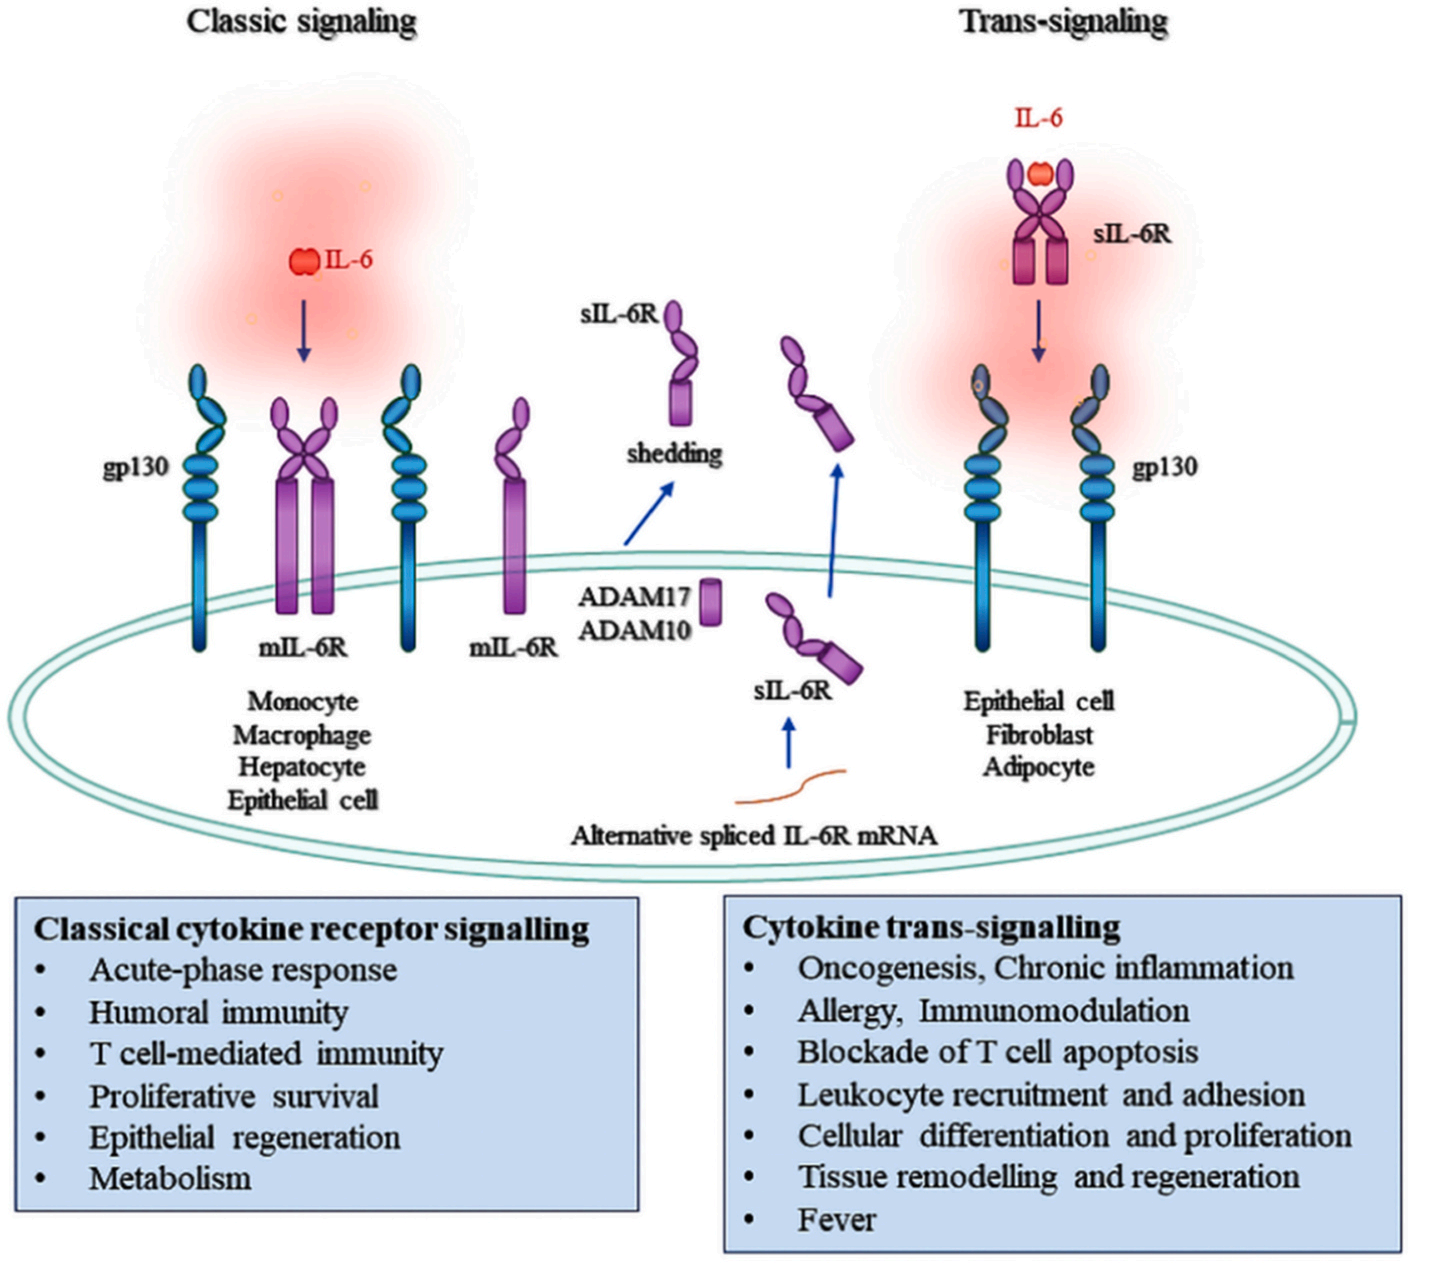
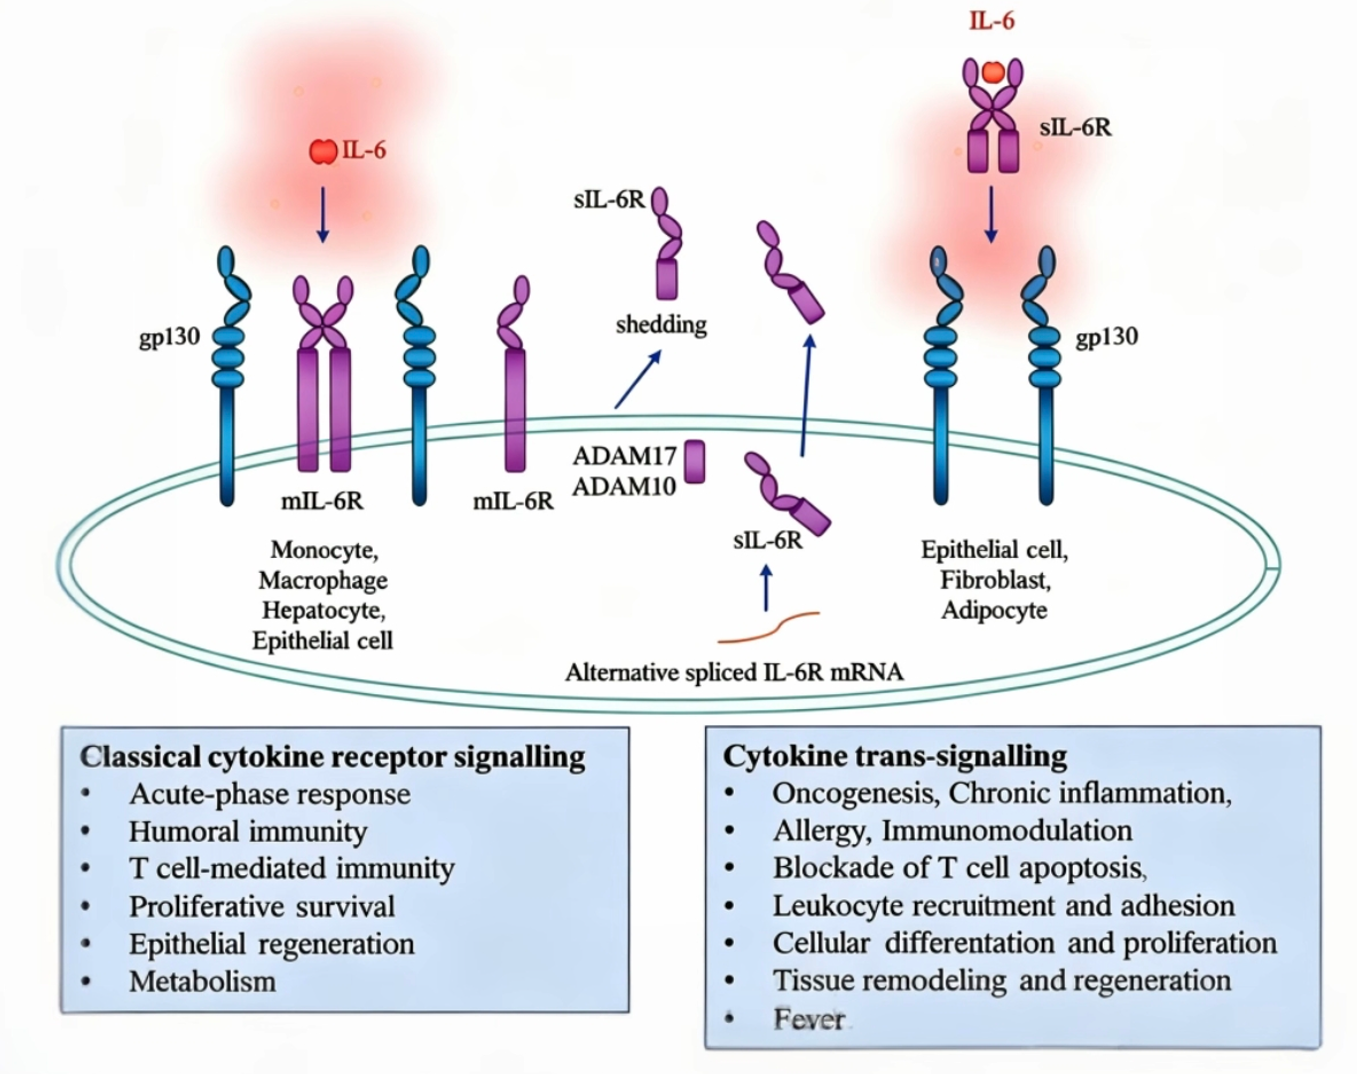
7

diff --git a/idec/Community/Community.html b/idec/Community/Community.html
@@ -627,10 +627,12 @@
             
             <nav class="sidebar-nav">
                 <ul>
-                    <li><a href="#Slide1" class="active">
+                    <li><a href="#Slide1"class="active">
                         <img src="../Community/目录图标/1 knowledge to action.png" alt="" class="nav-icon">Knowledge to Action
+                        </a></li>
                     <li><a href="#Slide2">
                         <img src="../Community/目录图标/2 trust gap.png" alt="" class="nav-icon">Trust Gap
+                        </a></li>
                     <li><a href="#Slide3">
                         <img src="../Community/目录图标/3 community needs.png" alt="" class="nav-icon">Community Needs
                     </a></li>
@@ -649,20 +651,27 @@
                     <li><a href="#Slide8">
                     <img src="../Community/目录图标/8 long-term commitment.png" alt="" class="nav-icon">Long-Term Commitment
                     </a></li>
+                    </ul>
             </nav>
         </aside>
 
         <!-- 主要内容区域 -->
         <main class="content-main">
-            <section id="content" class="content-section">
+            <section id="Slide1" class="content-section">
                 <div class="text-content0">
                     <div class="text-content">
-                        <p id="Slide1" class="title-style">Slide 1</p>
+                        <p  class="title-style">Chapter 1</p>
                         <p class="nomal-style">
                             <span style="font-size: 3rem; font-weight: bold;"> From Understanding the World to Transforming the World</span>
                           In our immunology classes we learned how B cells mutate their antibody genes and are then selected for stronger binding — somatic hypermutation, the process behind antibody affinity maturation. We then asked whether this natural principle could be used in our own research. But research should not stay in the laboratory. As these technologies move closer to patients, the people who may one day receive them need clear, reliable information too. That is why we took this work into the community.
                         </p>
-                        <p id="Slide2" class="title-style">Slide 2</p>
+                    </div>
+                </div>
+            </section>
+            <section id="Slide2" class="content-section">
+                <div class="text-content0">
+                    <div class="text-content">
+                        <p class="title-style">Chapter 2</p>
                         <p class="nomal-style">
                             <span style="font-size: 3rem; font-weight: bold;">We Saw the Trust Gap in Grassroots Communities</span>
                            Cell therapy is a promising new way for tough diseases, but people in grassroots communities just didn’t trust it. They often heard bad things—sky-high costs, failed cases, and messy wrong information online. No one told them the real science behind it. We knew this fear wasn’t simply from facts, but from an information gap. So we decided to step in, bring the truth to the community, and turn fear into understanding through our winter-to-spring community outreach.
@@ -671,8 +680,13 @@
                         <div class="img-div">
                             <img src="../Community/img/1.png"style="width: 100%; border-radius: 12px;">(Free clinic activity during the Spring “Learn from Lei Feng” campaign at Changhai Hospital.)
                         </div>
-                        <p id="Slide3" class="title-style">Slide 3</p>
-                        
+                        </div>
+                </div>
+            </section>
+            <section id="Slide3" class="content-section">
+                <div class="text-content0">
+                    <div class="text-content">
+                        <p class="title-style">Chapter 3</p>
                         <p class="nomal-style">
                             <span style="font-size: 3rem; font-weight: bold;">We Listened Closely to What the Community Really Needed</span>
                            We didn’t just talk—we asked first. We did a full survey in the community, made the questions easy to understand, and helped elderly residents and people with low education fill them out one by one. We found that 80.5% of residents had no knowledge at all of cell therapy, while only 8.2% reported full knowledge. We also found that treatment safety was the topic residents most wanted to learn about, accounting for 44.8% of responses. These answers told us exactly what to explain and helped us tailor our science popularization to different groups.</p>
@@ -683,7 +697,10 @@
                         <div class="img-div">
                              <img src="../Community/img/图片2.png"style="width: 100%; border-radius: 12px;">(Topics about cell therapy that residents most wanted to learn about, with treatment safety ranking first.)
                         </div>
-                        <p id="Slide4" class="title-style">Slide 4</p>
+            <section id="Slide4" class="content-section">
+                <div class="text-content0">
+                    <div class="text-content">
+                        <p class="title-style">Chapter 4</p>
                         <p class="nomal-style">
                             <span style="font-size: 3rem; font-weight: bold;">We Spoke to Everyone in Their Own Way</span>
                             We divided the community into four groups and tailored our talks for each. For patients and their families who needed treatment badly, we chatted one-on-one and talked about safety and recovery with real cases. For elderly neighbors who knew little about the topic, we used simple words, pictures and slow short videos. For young and middle-aged people with basic knowledge, we held lectures and Q&As to sort out their understanding. For school students, we used age-appropriate and engaging science classes to help them become little health messengers for their families. The photos here show representative examples of these audience-focused activities, including rural science popularization for children and elderly residents and an in-school science lecture.
@@ -694,16 +711,27 @@
                         <div class="img-div">
                              <img src="../Community/img/3.png"style="width: 100%; border-radius: 12px;">(Science popularization activity for elderly residents during a rural free clinic.)
                         </div>
-                         <div class="img-div">
+                        <div class="img-div">
                             <img src="../Community/img/4.jpg"style="width: 100%; border-radius: 12px;">(Science popularization lecture delivered to students at a school.)
-</div>
-                        <p id="Slide5" class="title-style">Slide 5</p>
+                        </div>
+                    </div>
+                </div>
+            </section>
+             <section id="Slide5" class="content-section">
+                <div class="text-content0">
+                    <div class="text-content">
+                        <p class="title-style">Chapter 5</p>
                         <p class="nomal-style">
                             <span style="font-size: 3rem; font-weight: bold;">We Crafted a Simple Science Plan for the Community</span>
                             Everyone's biggest fear was treatment safety, and cytokine storm was what they worried about most. So we planned out exactly how to explain this medical stuff in an easy way. We'd make it clear that IL-6 is a key factor involved in cytokine storm, and then tell them the real ways to deal with it. Doctors use IL-6 antibody drugs to help control it, and cell therapy technology is always getting better to lower this risk from the very start. We decided to use simple everyday examples, skip all the hard medical words, and keep everything plain and easy to understand. Our goal was to make sure no one was confused and that people could understand the safety concerns they had heard about.
                         </p>
-                        
-                        <p id="Slide6" class="title-style">Slide 6</p>
+                    </div>
+                </div>
+            </section>
+             <section id="Slide6" class="content-section">
+                <div class="text-content0">
+                    <div class="text-content">
+                        <p class="title-style">Chapter 6</p>
                         
                         <p class="nomal-style">
                             <span style="font-size: 3rem; font-weight: bold;">We Brought Warmth and Science This Spring Festival</span> 
@@ -713,7 +741,13 @@
                         <div class="img-div">
                              <img src="../Community/img/5.jpg"style="width: 100%; border-radius: 12px;">(Rural free clinic at Longwangzhuang Village Health Room during the 2026 Q1 chronic-disease follow-up.)
                         </div>
-                         <p id="Slide7" class="title-style">Slide 7</p>
+                    </div>
+                </div>
+            </section>
+             <section id="Slide7" class="content-section">
+                <div class="text-content0">
+                    <div class="text-content">
+                         <p class="title-style">Chapter 7</p>
                         <p class="nomal-style">
                             <span style="font-size: 3rem; font-weight: bold;">We Took This Communication Skill to the Clinical Setting</span>
                             The same need for clear explanation appeared again during our clinical training. At the pediatric sample-collection window of Changhai Hospital, one of us collected throat swabs from children held in their parents’ arms. Mask on, there was little time to talk. After each procedure the mask came off, and he explained to the parent what the sample was for and what would happen next. Many of those parents were as anxious as the residents we had met in the community, and often for the same reason: no one had explained things clearly. Clear communication is not a one-off exercise — it is part of how we intend to practise medicine.
@@ -724,7 +758,13 @@
                         <div class="img-div">
                              <img src="../Community/img/7.png"style="width: 100%; border-radius: 12px;">(Mask off, same window: explaining the sampling procedure to the parent.)
                         </div>
-                        <p id="Slide8" class="title-style">Slide 8</p>
+                    </div>
+                </div>
+            </section>
+            <section id="Slide8" class="content-section">
+                <div class="text-content0">
+                    <div class="text-content">
+                        <p id="Slide8" class="title-style">Chapter 8</p>
                         <p class="nomal-style">
                             <span style="font-size: 3rem; font-weight: bold;"> We'll Keep Standing by the Community for the Long Run</span>
                             This Spring Festival activity wasn’t a one-off. We broke the information wall for grassroots neighbors and let cutting-edge medical knowledge walk into the community. And we’re not stopping here—we’ll keep coming back to the community, do regular science popularization, help areas with poor medical resources, and keep closing the information gap. We believe that, with warmth and professional knowledge, everyone in the community can face diseases with science, not fear, and hold onto every hope for treatment.
@@ -736,4 +776,27 @@
     </div>
             
 </body>
+<script>
+const sections = document.querySelectorAll('.content-main [id^="Slide"]');
+const navLinks = document.querySelectorAll('.sidebar-nav a');
+
+function onScroll() {
+    let current = '';
+
+    sections.forEach(section => {
+        const rect = section.getBoundingClientRect();
+        // 当板块顶部越过视口 150px 线，且底部还没完全离开
+        if (rect.top <= 150 && rect.bottom > 150) {
+            current = section.getAttribute('id');
+        }
+    });
+
+    navLinks.forEach(link => {
+        link.classList.toggle('active', link.getAttribute('href') === '#' + current);
+    });
+}
+
+window.addEventListener('scroll', onScroll);
+window.addEventListener('load', onScroll);
+</script>
 </html>

diff --git a/idec/background/background.html b/idec/background/background.html
@@ -597,10 +597,10 @@
             <nav class="sidebar-nav">
                 <ul>
                     <li><a href="#preface" class="active">Preface</a></li>
-                    <li><a href="#il6">IL-6</a></li>
-                    <li><a href="#denovo">Denovo Design</a></li>
-                    <li><a href="#AID">AID</a></li>
+                    <li><a href="#il6">Dual IL-6 Signaling</a></li>
+                    <li><a href="#denovo">De novo Design</a></li>
                     <li><a href="#shm">SHM</a></li>
+                    <li><a href="#AID">AID</a></li>
                 </ul>
             </nav>
         </aside>
@@ -613,7 +613,7 @@
                 <p class="section-text">
                 Inflammation is an essential defensive response of the body to infection and tissue injury. Its magnitude and duration are tightly regulated by the immune system. A variety of cytokines participate in host defense, tissue repair and the maintenance of immune homeostasis. However, upon sustained production or aberrant activation, these cytokines can drive chronic inflammation and tissue damage. Therefore, the regulation of inflammation is not merely about reducing the level of a single inflammatory mediator. More importantly, it requires distinguishing between physiological and pathological signals mediated by the same molecule, and selectively attenuating disease-associated signal output.
                 </p>
-                <h2 class="section-title" id="il6">IL-6</h2> 
+                <h2 class="section-title" id="il6">Dual IL-6 Signaling</h2> 
                 <div class="image-div">
                     <img src="../image/wiki绘图/gp130.png" style="width: 100%; border-radius: 12px;">
                 </div>
@@ -648,15 +648,6 @@
                     <button class="control-btn fullscreen-btn">⛶</button>
                 </div>
             </div>
-                <h2 class="section-title"id="AID">AID</h2>
-                <div class="image-div">
-                    <img src="../image/wiki绘图/AID 王雨萱.png" style="width: 100%; border-radius: 12px;">
-                </div>
-                <p class="section-text">
-                   During the germinal center reaction, activation-induced cytidine deaminase (AID) continuously introduces high-frequency mutations into immunoglobulin variable regions, generating B cell clones with diverse antigen-binding capacities. 
-                   These clones are then gradually enriched for high-affinity variants through antigen-dependent selection and clonal expansion. 
-                   This process couples sequence diversification, functional selection, and clonal amplification in a continuous manner within mammalian cells, providing a natural immunological foundation for the directed evolution of artificial proteins.
-                </p>
                 <h2 class="section-title" id="shm">SHM</h2>
                 <div class="image-div">
                     <img src="../image/wiki绘图/B细胞高频突变发展史 袁馨茹.png" style="width: 100%; border-radius: 12px;">
@@ -670,6 +661,15 @@
                 <div class="image-div">
                     <img src="../image/wiki绘图/low_high affinity.png" style="width: 100%; border-radius: 12px;">
                 </div>
+                <h2 class="section-title"id="AID">AID</h2>
+                <div class="image-div">
+                    <img src="../image/wiki绘图/AID 王雨萱.png" style="width: 100%; border-radius: 12px;">
+                </div>
+                <p class="section-text">
+                   During the germinal center reaction, activation-induced cytidine deaminase (AID) continuously introduces high-frequency mutations into immunoglobulin variable regions, generating B cell clones with diverse antigen-binding capacities. 
+                   These clones are then gradually enriched for high-affinity variants through antigen-dependent selection and clonal expansion. 
+                   This process couples sequence diversification, functional selection, and clonal amplification in a continuous manner within mammalian cells, providing a natural immunological foundation for the directed evolution of artificial proteins.
+                </p>
                 <p class="section-text">
                   This schematic illustration was generated with AI and reviewed by the team. It does not represent experimental data.
                 </p>

diff --git a/idec/result/result.html b/idec/result/result.html
@@ -671,7 +671,7 @@ count (1,468) and was identified as the predominant hotspot residue at the inter
 
 
                  <div class="image-div">
-                    <img src="../result/r  img/r4/1.png" style="width: 100%; border-radius: 12px;">
+                    <img src="../result/r  img/r4/1.png" style="width: 90%; border-radius: 12px;">
                 </div>
                 <p class="section-text">Fig. 4 |In silico construction of second-round evolution candidates. a-c, Ninety repeated 
 predictions of S1, S2, and S3 were performed using AlphaFold3. The five predictions with the 
@@ -753,7 +753,7 @@ M1-like macrophage phenotype.</p>
 
  
                 <div class="image-div">
-                    <img src="../result/r  img/r6/1.png" style="width: 100%; border-radius: 12px;">
+                    <img src="../result/r  img/r6/1.png" style="width: 85%; border-radius: 12px;">
                 </div>
                  <p class="section-text">Fig. 6 | STAR-Trap exhibit an M1-like phenotypic shift. a, Representative flow-cytometry 
 histograms showing the expression of the M1-associated markers HLA-DR and CD86 and 
@@ -788,7 +788,7 @@ Thus, STAR-Trap did not measurably impair classical signaling mediated by free I
 6Rα complex and suppresses the associated trans-signaling response while largely preserving 
 classical signaling mediated by free IL-6.</p>
                  <div class="image-div">
-                    <img src="../result/r  img/r7/1.png" style="width: 100%; border-radius: 12px;">
+                    <img src="../result/r  img/r7/1.png" style="width: 85%; border-radius: 12px;">
                 </div>
                 
                 <p class="section-text">

diff --git a/idec/home/index.html b/idec/home/index.html
@@ -226,6 +226,18 @@
             position: relative;
             z-index: 5;
         }
+        .left-text {
+    position: absolute;
+    left: -220px;           /* 往左移出主容器 */
+    top: 400px;
+    width: 200px;
+ font-family: "Great Vibes", cursive;
+    font-size: 4rem;
+    font-weight: 350;        /* 花体一般不要加粗，加粗会失真 */
+    line-height: 1.8;
+    color: #000000;
+     text-shadow: 2px 2px 4px rgba(0, 0, 0, 0.4);
+}
         /* 主内容区域优化 */
         .content-main {
             flex: 1;
@@ -400,6 +412,9 @@
     </style>
     <!-- 添加Font Awesome图标库 -->
     <link rel="stylesheet" href="https://cdnjs.cloudflare.com/ajax/libs/font-awesome/6.0.0/css/all.min.css">
+    <link rel="preconnect" href="https://fonts.googleapis.com">
+<link rel="preconnect" href="https://fonts.gstatic.com" crossorigin>
+<link href="https://fonts.googleapis.com/css2?family=Great+Vibes&display=swap" rel="stylesheet">
 </head>
 <body>
     <div class="star-background" id="starBackground"></div>
@@ -461,6 +476,10 @@
 
     <!-- 重新设计的主内容区域 -->
     <div class="main-wrapper">
+         <div class="left-text">
+        OUR PROJECT
+    </div>
+
         <main class="content-main">
             
              <div class="video-container">

diff --git a/idec/notebook/notebook.html b/idec/notebook/notebook.html
@@ -487,11 +487,11 @@
     content: "";
     position: absolute;
     top: 80px;                   /* 负值越大，露出越多 */
-    left: 10%;
+    left: 30%;
     transform: translateX(-50%);
-    width: 200px;
-    height: 200px;
-    background: url('../image/所有图（除design头图）/notebook侧边栏/抽屉书柜/please\ click\ here.png') center / contain no-repeat;
+    width: 400px;
+    height: 160px;
+    background: url('../image/所有图（除design头图）/notebook侧边栏/抽屉书柜/please\ click\ here.png') center / cover no-repeat;
     z-index: -1;                   /* 低于实验区块 */
     pointer-events: none;
 }
